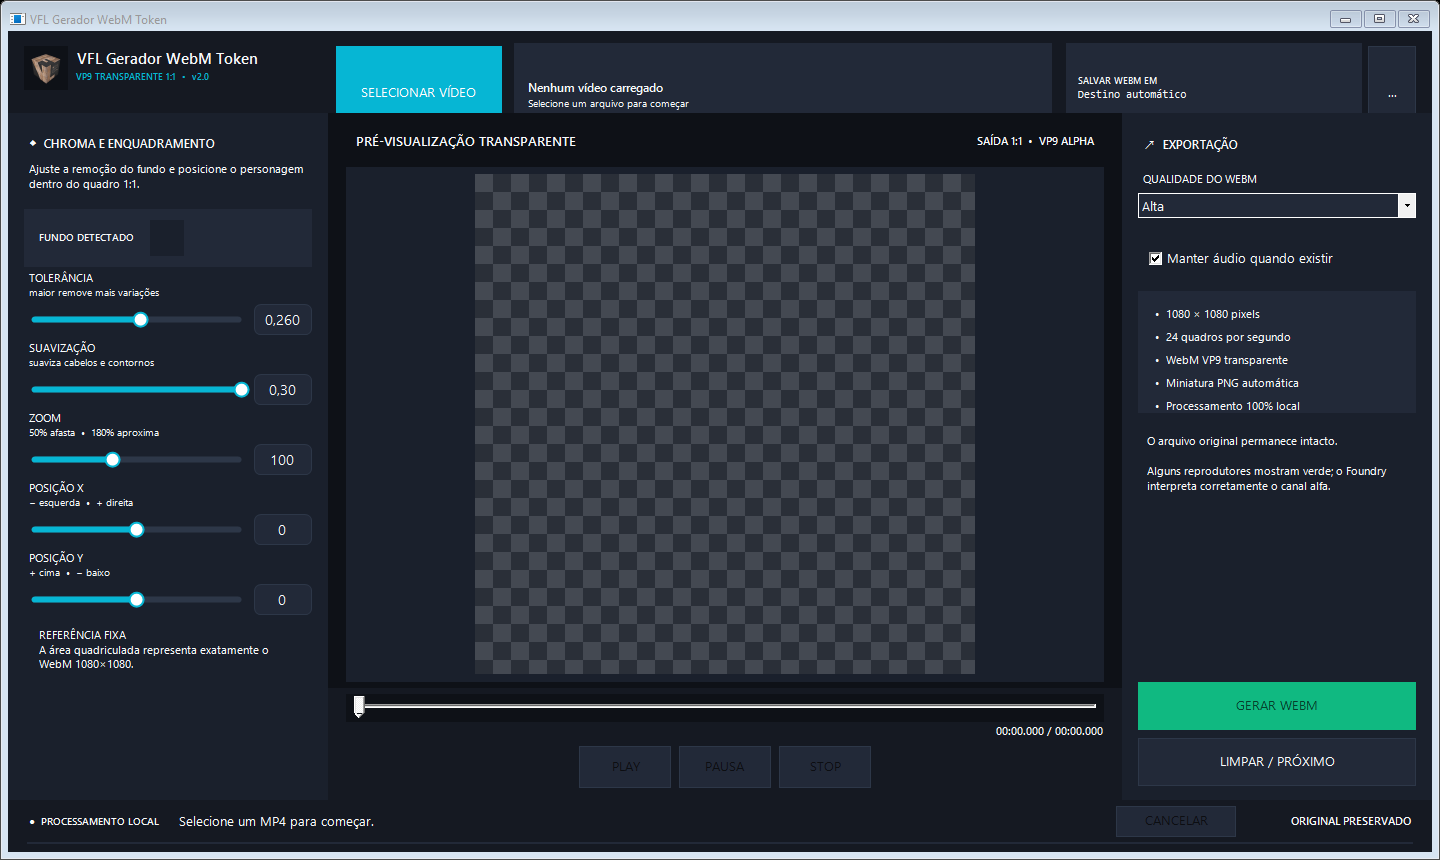
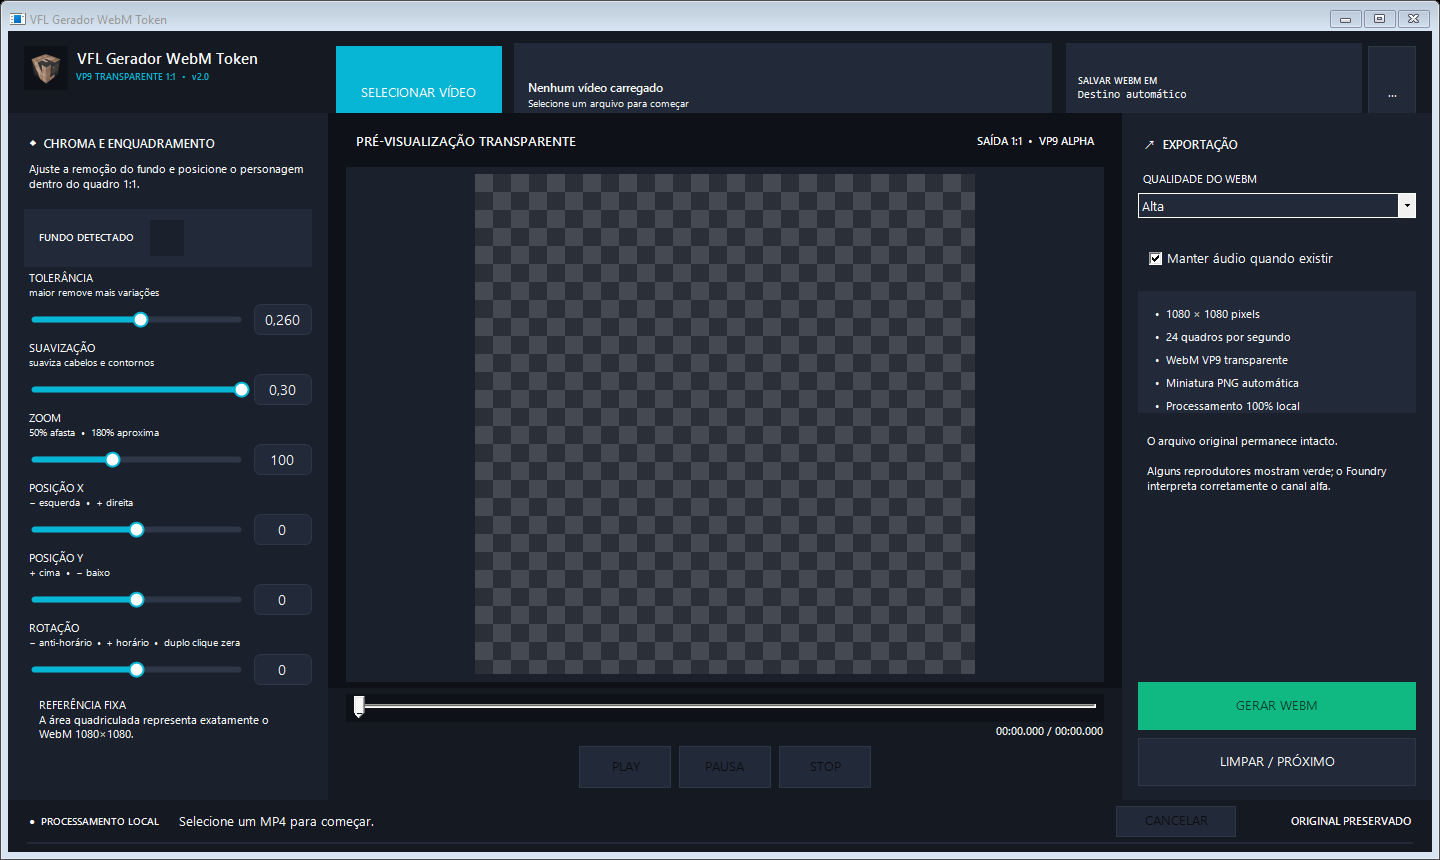
Adiciona rotacao ao enquadramento dos tokens

Changed region(s): [[0.0, 0.7256, 0.1875, 0.786], [0.0312, 0.8163, 0.1875, 0.8767]]

diff --git a/MainForm.cs b/MainForm.cs
@@ -11,6 +11,7 @@ internal sealed class MainForm : Form
     private readonly ValueSlider _zoom = Slider(50, 180, 100, 5, 0);
     private readonly ValueSlider _positionX = Slider(-400, 400, 0, 10, 0);
     private readonly ValueSlider _positionY = Slider(-400, 400, 0, 10, 0);
+    private readonly ValueSlider _rotation = Slider(-180, 180, 0, 1, 0);
     private readonly ComboBox _quality = new() { DropDownStyle = ComboBoxStyle.DropDownList };
     private readonly CheckBox _keepAudio = new() { Text = "Manter áudio quando existir", Checked = true, AutoSize = true };
     private readonly CheckerPreview _preview = new() { Dock = DockStyle.Fill };
@@ -66,6 +67,8 @@ internal sealed class MainForm : Form
         _zoom.ValueChanged += (_, _) => SettingChanged();
         _positionX.ValueChanged += (_, _) => SettingChanged();
         _positionY.ValueChanged += (_, _) => SettingChanged();
+        _rotation.ValueChanged += (_, _) => SettingChanged();
+        _rotation.DoubleClick += (_, _) => _rotation.Value = 0;
         _quality.SelectedIndexChanged += (_, _) => SaveSettings();
         _keepAudio.CheckedChanged += (_, _) => SaveSettings();
         _selectVideo.Click += async (_, _) => await SelectVideoAsync();
@@ -136,10 +139,10 @@ internal sealed class MainForm : Form
         main.ColumnStyles.Add(new ColumnStyle(SizeType.Absolute, 310));
         root.Controls.Add(main, 0, 1);
 
-        var left = new TableLayoutPanel { Dock = DockStyle.Fill, RowCount = 10, Padding = new Padding(16, 14, 16, 14), Tag = "sidebar", Margin = Padding.Empty, AutoScroll = true, AutoScrollMinSize = new Size(0, 620) };
+        var left = new TableLayoutPanel { Dock = DockStyle.Fill, RowCount = 10, Padding = new Padding(16, 14, 16, 14), Tag = "sidebar", Margin = Padding.Empty, AutoScroll = true, AutoScrollMinSize = new Size(0, 660) };
         left.RowStyles.Add(new RowStyle(SizeType.Absolute, 34)); left.RowStyles.Add(new RowStyle(SizeType.Absolute, 48)); left.RowStyles.Add(new RowStyle(SizeType.Absolute, 58));
-        for (var index = 0; index < 5; index++) left.RowStyles.Add(new RowStyle(SizeType.Absolute, 70));
-        left.RowStyles.Add(new RowStyle(SizeType.Percent, 100)); left.RowStyles.Add(new RowStyle(SizeType.Absolute, 58));
+        for (var index = 0; index < 6; index++) left.RowStyles.Add(new RowStyle(SizeType.Absolute, 70));
+        left.RowStyles.Add(new RowStyle(SizeType.Percent, 100));
         left.Controls.Add(SectionTitle("CHROMA E ENQUADRAMENTO", "◆"), 0, 0);
         left.Controls.Add(new Label { Text = "Ajuste a remoção do fundo e posicione o personagem dentro do quadro 1:1.", Dock = DockStyle.Fill, ForeColor = Theme.Muted, Font = new Font("Segoe UI", 8.3f) }, 0, 1);
         var detectedCard = new TableLayoutPanel { Dock = DockStyle.Fill, ColumnCount = 3, Tag = "card", Padding = new Padding(10, 7, 10, 7), Margin = Padding.Empty };
@@ -152,7 +155,8 @@ internal sealed class MainForm : Form
         left.Controls.Add(StackedNumber("ZOOM", _zoom, "50% afasta  •  180% aproxima"), 0, 5);
         left.Controls.Add(StackedNumber("POSIÇÃO X", _positionX, "− esquerda  •  + direita"), 0, 6);
         left.Controls.Add(StackedNumber("POSIÇÃO Y", _positionY, "+ cima  •  − baixo"), 0, 7);
-        left.Controls.Add(new Label { Text = "REFERÊNCIA FIXA\nA área quadriculada representa exatamente o WebM 1080×1080.", Dock = DockStyle.Fill, ForeColor = Theme.Muted, Font = new Font("Segoe UI", 8.3f), Padding = new Padding(10), Tag = "card" }, 0, 8);
+        left.Controls.Add(StackedNumber("ROTAÇÃO", _rotation, "− anti-horário  •  + horário  •  duplo clique zera"), 0, 8);
+        left.Controls.Add(new Label { Text = "REFERÊNCIA FIXA\nA área quadriculada representa exatamente o WebM 1080×1080.", Dock = DockStyle.Fill, ForeColor = Theme.Muted, Font = new Font("Segoe UI", 8.3f), Padding = new Padding(10), Tag = "card" }, 0, 9);
         main.Controls.Add(left, 0, 0);
 
         var workspace = new TableLayoutPanel { Dock = DockStyle.Fill, RowCount = 3, Tag = "background", Margin = Padding.Empty };
@@ -316,7 +320,7 @@ internal sealed class MainForm : Form
 
         var settings = new TableLayoutPanel
         {
-            Dock = DockStyle.Fill, RowCount = 12, Padding = new Padding(22, 16, 22, 16),
+            Dock = DockStyle.Fill, RowCount = 13, Padding = new Padding(22, 16, 22, 16),
             Tag = "rounded-surface", Margin = new Padding(0, 0, 12, 0),
             AutoScroll = true, AutoScrollMinSize = new Size(0, 540)
         };
@@ -324,6 +328,7 @@ internal sealed class MainForm : Form
         settings.RowStyles.Add(new RowStyle(SizeType.Absolute, 64));
         settings.RowStyles.Add(new RowStyle(SizeType.Absolute, 64));
         settings.RowStyles.Add(new RowStyle(SizeType.Absolute, 36));
+        settings.RowStyles.Add(new RowStyle(SizeType.Absolute, 48));
         settings.RowStyles.Add(new RowStyle(SizeType.Absolute, 48));
         settings.RowStyles.Add(new RowStyle(SizeType.Absolute, 48));
         settings.RowStyles.Add(new RowStyle(SizeType.Absolute, 48));
@@ -345,13 +350,14 @@ internal sealed class MainForm : Form
         settings.Controls.Add(SettingRow("Zoom", _zoom, "50% afasta  •  180% aproxima"), 0, 6);
         settings.Controls.Add(SettingRow("Posição X", _positionX, "− esquerda  •  + direita"), 0, 7);
         settings.Controls.Add(SettingRow("Posição Y", _positionY, "+ cima  •  − baixo"), 0, 8);
+        settings.Controls.Add(SettingRow("Rotação", _rotation, "− anti-horário  •  + horário"), 0, 9);
         var qualityRow = new TableLayoutPanel { Dock = DockStyle.Fill, ColumnCount = 2, Tag = "surface" };
         qualityRow.ColumnStyles.Add(new ColumnStyle(SizeType.Absolute, 130)); qualityRow.ColumnStyles.Add(new ColumnStyle(SizeType.Percent, 100));
         qualityRow.Controls.Add(new Label { Text = "QUALIDADE", Dock = DockStyle.Fill, ForeColor = Theme.Muted, TextAlign = ContentAlignment.MiddleLeft }, 0, 0);
         _quality.Dock = DockStyle.Fill; _quality.Margin = new Padding(0, 7, 0, 7); qualityRow.Controls.Add(_quality, 1, 0);
-        settings.Controls.Add(qualityRow, 0, 9);
-        _keepAudio.Dock = DockStyle.Fill; settings.Controls.Add(_keepAudio, 0, 10);
-        settings.Controls.Add(new Label { Text = "Prévia automática • Saída 1080×1080 • 24 FPS • VP9 transparente\nZoom 100% e posições X/Y 0 mantêm o enquadramento automático.", Dock = DockStyle.Fill, ForeColor = Theme.Muted, Font = new Font("Segoe UI", 8.5f) }, 0, 11);
+        settings.Controls.Add(qualityRow, 0, 10);
+        _keepAudio.Dock = DockStyle.Fill; settings.Controls.Add(_keepAudio, 0, 11);
+        settings.Controls.Add(new Label { Text = "Prévia automática • Saída 1080×1080 • 24 FPS • VP9 transparente\nZoom 100%, posições X/Y 0 e rotação 0° mantêm o enquadramento automático.", Dock = DockStyle.Fill, ForeColor = Theme.Muted, Font = new Font("Segoe UI", 8.5f) }, 0, 12);
         content.Controls.Add(settings, 0, 0);
 
         var previewCard = new TableLayoutPanel { Dock = DockStyle.Fill, RowCount = 3, Padding = new Padding(16), Tag = "rounded-surface", Margin = new Padding(12, 0, 0, 0) };
@@ -454,7 +460,7 @@ internal sealed class MainForm : Form
             var analyzer = new VideoAnalyzer();
             var messages = new Progress<string>(message => _status.Text = message);
             _analysis = await analyzer.AnalyzeAsync(_input.Text, (double)_similarity.Value, (double)_blend.Value,
-                (double)_zoom.Value, (int)_positionX.Value, (int)_positionY.Value, messages, _cts.Token);
+                (double)_zoom.Value, (int)_positionX.Value, (int)_positionY.Value, (double)_rotation.Value, messages, _cts.Token);
             _colorSwatch.BackColor = _analysis.BackgroundColor;
             _detected.Text = $"#{_analysis.BackgroundColor.R:X2}{_analysis.BackgroundColor.G:X2}{_analysis.BackgroundColor.B:X2}  •  confiança {_analysis.Confidence:P0}";
             _preview.PreviewImage = LoadImage(_analysis.PreviewPath);
@@ -464,7 +470,7 @@ internal sealed class MainForm : Form
             SetPlaybackControlsEnabled(true);
             _videoTitle.Text = Path.GetFileName(_input.Text);
             _videoMeta.Text = $"{FormatTime(_analysis.Video.Duration)}  •  fundo {_detected.Text}";
-            _status.Text = $"Prévia pronta • Zoom {_zoom.Value:0}% • X {_positionX.Value:+0;-0;0} • Y {_positionY.Value:+0;-0;0}";
+            _status.Text = $"Prévia pronta • Zoom {_zoom.Value:0}% • X {_positionX.Value:+0;-0;0} • Y {_positionY.Value:+0;-0;0} • Giro {_rotation.Value:+0;-0;0}°";
         }
         catch (OperationCanceledException) { _status.Text = "Análise cancelada."; _videoMeta.Text = "Análise cancelada"; }
         catch (Exception exception) { _status.Text = "Falha na análise."; _videoMeta.Text = "Não foi possível analisar este arquivo"; TokenDialog.ShowMessage(this, "Erro na análise", exception.Message); }
@@ -488,7 +494,7 @@ internal sealed class MainForm : Form
             var progress = new Progress<RenderProgress>(item => { _progress.Value = (int)item.Percent; _status.Text = item.Message; });
             await new WebmRenderer().RenderAsync(_input.Text, _output.Text, _analysis,
                 (double)_similarity.Value, (double)_blend.Value, (double)_zoom.Value,
-                (int)_positionX.Value, (int)_positionY.Value,
+                (int)_positionX.Value, (int)_positionY.Value, (double)_rotation.Value,
                 preset, _keepAudio.Checked, progress, _cts.Token);
             var thumbnailPath = Path.Combine(
                 Path.GetDirectoryName(Path.GetFullPath(_output.Text)) ?? "",
@@ -510,7 +516,7 @@ internal sealed class MainForm : Form
         _render.Enabled = !busy && _analysis is not null; _clear.Enabled = !busy; _cancel.Enabled = busy;
         _selectVideo.Enabled = !busy; _selectOutput.Enabled = !busy;
         _similarity.Enabled = !busy; _blend.Enabled = !busy; _zoom.Enabled = !busy;
-        _positionX.Enabled = !busy; _positionY.Enabled = !busy; _quality.Enabled = !busy; _keepAudio.Enabled = !busy;
+        _positionX.Enabled = !busy; _positionY.Enabled = !busy; _rotation.Enabled = !busy; _quality.Enabled = !busy; _keepAudio.Enabled = !busy;
         _timeline.Enabled = !busy && _analysis is not null;
         if (busy)
         {
@@ -568,6 +574,7 @@ internal sealed class MainForm : Form
         _zoom.Value = Clamp(settings.Zoom, _zoom.Minimum, _zoom.Maximum);
         _positionX.Value = Clamp(settings.PositionX, _positionX.Minimum, _positionX.Maximum);
         _positionY.Value = Clamp(settings.PositionY, _positionY.Minimum, _positionY.Maximum);
+        _rotation.Value = Clamp(settings.Rotation, _rotation.Minimum, _rotation.Maximum);
         _quality.SelectedItem = Enum.TryParse<QualityPreset>(settings.Quality, out var quality)
             ? quality.ToString()
             : QualityPreset.Alta.ToString();
@@ -583,6 +590,7 @@ internal sealed class MainForm : Form
             Zoom = _zoom.Value,
             PositionX = _positionX.Value,
             PositionY = _positionY.Value,
+            Rotation = _rotation.Value,
             Quality = _quality.SelectedItem?.ToString() ?? QualityPreset.Alta.ToString(),
             KeepAudio = _keepAudio.Checked
         }.Save();
@@ -602,10 +610,10 @@ internal sealed class MainForm : Form
             _status.Text = "Atualizando prévia...";
             previewPath = await new VideoAnalyzer().CreatePreviewAsync(_input.Text, _analysis,
                 (double)_similarity.Value, (double)_blend.Value, (double)_zoom.Value,
-                (int)_positionX.Value, (int)_positionY.Value, _previewPositionSeconds, token);
+                (int)_positionX.Value, (int)_positionY.Value, (double)_rotation.Value, _previewPositionSeconds, token);
             if (token.IsCancellationRequested) return;
             _preview.PreviewImage = LoadImage(previewPath);
-            _status.Text = $"Prévia {FormatTime(_previewPositionSeconds)} • Zoom {_zoom.Value:0}% • X {_positionX.Value:+0;-0;0} • Y {_positionY.Value:+0;-0;0}";
+            _status.Text = $"Prévia {FormatTime(_previewPositionSeconds)} • Zoom {_zoom.Value:0}% • X {_positionX.Value:+0;-0;0} • Y {_positionY.Value:+0;-0;0} • Giro {_rotation.Value:+0;-0;0}°";
         }
         catch (OperationCanceledException) { }
         catch (Exception exception)
@@ -648,7 +656,7 @@ internal sealed class MainForm : Form
         {
             await new VideoAnalyzer().StreamPreviewAsync(_input.Text, _analysis,
                 (double)_similarity.Value, (double)_blend.Value, (double)_zoom.Value,
-                (int)_positionX.Value, (int)_positionY.Value, startPosition,
+                (int)_positionX.Value, (int)_positionY.Value, (double)_rotation.Value, startPosition,
                 async (bitmap, seconds) =>
                 {
                     if (token.IsCancellationRequested) { bitmap.Dispose(); return; }

diff --git a/VideoAnalyzer.cs b/VideoAnalyzer.cs
@@ -20,7 +20,7 @@ internal sealed class VideoAnalyzer
     }
 
     public async Task<AnalysisResult> AnalyzeAsync(string videoPath, double similarity, double blend, double zoomPercent,
-        int horizontalOffset, int verticalOffset,
+        int horizontalOffset, int verticalOffset, double rotationDegrees,
         IProgress<string> progress, CancellationToken cancellationToken)
     {
         var info = await ProbeAsync(videoPath, cancellationToken);
@@ -47,7 +47,7 @@ internal sealed class VideoAnalyzer
 
             var previewSecond = 0d;
             var preview = await CreatePreviewAsync(videoPath, background, bounds, info, similarity, blend,
-                zoomPercent, horizontalOffset, verticalOffset, previewSecond, cancellationToken);
+                zoomPercent, horizontalOffset, verticalOffset, rotationDegrees, previewSecond, cancellationToken);
             return new AnalysisResult(background, bounds, info, preview, confidence);
         }
         finally
@@ -57,13 +57,14 @@ internal sealed class VideoAnalyzer
     }
 
     public Task<string> CreatePreviewAsync(string videoPath, AnalysisResult analysis, double similarity,
-        double blend, double zoomPercent, int horizontalOffset, int verticalOffset,
+        double blend, double zoomPercent, int horizontalOffset, int verticalOffset, double rotationDegrees,
         double positionSeconds, CancellationToken cancellationToken) =>
         CreatePreviewAsync(videoPath, analysis.BackgroundColor, analysis.SubjectBounds, analysis.Video,
-            similarity, blend, zoomPercent, horizontalOffset, verticalOffset, positionSeconds, cancellationToken);
+            similarity, blend, zoomPercent, horizontalOffset, verticalOffset, rotationDegrees,
+            positionSeconds, cancellationToken);
 
     public async Task StreamPreviewAsync(string videoPath, AnalysisResult analysis, double similarity,
-        double blend, double zoomPercent, int horizontalOffset, int verticalOffset,
+        double blend, double zoomPercent, int horizontalOffset, int verticalOffset, double rotationDegrees,
         double positionSeconds, Func<Bitmap, double, Task> showFrame, CancellationToken cancellationToken)
     {
         const int previewSize = 500;
@@ -71,7 +72,7 @@ internal sealed class VideoAnalyzer
         var finalFrameSecond = Math.Max(0, analysis.Video.Duration - 1 / Math.Max(1, analysis.Video.FrameRate));
         var seekSecond = Math.Clamp(positionSeconds, 0, finalFrameSecond);
         var filter = BuildVideoFilter(analysis.BackgroundColor, analysis.SubjectBounds, similarity, blend,
-            zoomPercent, horizontalOffset, verticalOffset) +
+            zoomPercent, horizontalOffset, verticalOffset, rotationDegrees) +
             $",scale={previewSize}:{previewSize}:flags=fast_bilinear,fps={previewFps.ToString(CultureInfo.InvariantCulture)},format=bgra";
         var psi = new ProcessStartInfo(_ffmpeg)
         {
@@ -123,11 +124,11 @@ internal sealed class VideoAnalyzer
 
     private async Task<string> CreatePreviewAsync(string videoPath, Color background, Rectangle bounds,
         VideoInfo info, double similarity, double blend, double zoomPercent, int horizontalOffset,
-        int verticalOffset, double positionSeconds, CancellationToken cancellationToken)
+        int verticalOffset, double rotationDegrees, double positionSeconds, CancellationToken cancellationToken)
     {
         var preview = Path.Combine(Path.GetTempPath(), "VFL-WebM-preview-" + Guid.NewGuid().ToString("N") + ".png");
         var filter = BuildVideoFilter(background, bounds, similarity, blend, zoomPercent,
-            horizontalOffset, verticalOffset);
+            horizontalOffset, verticalOffset, rotationDegrees);
         try
         {
             var finalFrameSecond = Math.Max(0, info.Duration - 1 / Math.Max(1, info.FrameRate));
@@ -145,7 +146,8 @@ internal sealed class VideoAnalyzer
     }
 
     public static string BuildVideoFilter(Color color, Rectangle bounds, double similarity, double blend,
-        double zoomPercent = 100, int horizontalOffset = 0, int verticalOffset = 0)
+        double zoomPercent = 100, int horizontalOffset = 0, int verticalOffset = 0,
+        double rotationDegrees = 0)
     {
         var ci = CultureInfo.InvariantCulture;
         var key = $"0x{color.R:X2}{color.G:X2}{color.B:X2}";
@@ -155,27 +157,34 @@ internal sealed class VideoAnalyzer
         var scaledWidth = wide ? targetSize : Even((int)Math.Round(bounds.Width * targetSize / (double)bounds.Height));
         var scaledHeight = wide ? Even((int)Math.Round(bounds.Height * targetSize / (double)bounds.Width)) : targetSize;
         var scale = wide ? $"scale={scaledWidth}:-2" : $"scale=-2:{scaledHeight}";
-        var canvasWidth = Math.Max(1080, scaledWidth);
-        var canvasHeight = Math.Max(1080, scaledHeight);
+        var rotation = Math.Clamp(rotationDegrees, -180, 180);
+        var radians = rotation * Math.PI / 180d;
+        var cosine = Math.Abs(Math.Cos(radians));
+        var sine = Math.Abs(Math.Sin(radians));
+        var rotatedWidth = Even((int)Math.Ceiling(scaledWidth * cosine + scaledHeight * sine));
+        var rotatedHeight = Even((int)Math.Ceiling(scaledWidth * sine + scaledHeight * cosine));
+        var canvasWidth = Math.Max(1080, rotatedWidth);
+        var canvasHeight = Math.Max(1080, rotatedHeight);
         var offsetX = Math.Clamp(horizontalOffset, -400, 400);
         // Valores positivos acompanham a seta para cima do controle e movem o personagem para cima.
         var offsetY = Math.Clamp(-verticalOffset, -400, 400);
-        var padX = scaledWidth <= 1080
-            ? Math.Clamp((1080 - scaledWidth) / 2 + offsetX, 0, 1080 - scaledWidth)
+        var padX = rotatedWidth <= 1080
+            ? Math.Clamp((1080 - rotatedWidth) / 2 + offsetX, 0, 1080 - rotatedWidth)
             : 0;
-        var padY = scaledHeight <= 1080
-            ? Math.Clamp((1080 - scaledHeight) / 2 + offsetY, 0, 1080 - scaledHeight)
+        var padY = rotatedHeight <= 1080
+            ? Math.Clamp((1080 - rotatedHeight) / 2 + offsetY, 0, 1080 - rotatedHeight)
             : 0;
-        var cropX = scaledWidth > 1080
-            ? Math.Clamp((scaledWidth - 1080) / 2 - offsetX, 0, scaledWidth - 1080)
+        var cropX = rotatedWidth > 1080
+            ? Math.Clamp((rotatedWidth - 1080) / 2 - offsetX, 0, rotatedWidth - 1080)
             : 0;
-        var cropY = scaledHeight > 1080
-            ? Math.Clamp((scaledHeight - 1080) / 2 - offsetY, 0, scaledHeight - 1080)
+        var cropY = rotatedHeight > 1080
+            ? Math.Clamp((rotatedHeight - 1080) / 2 - offsetY, 0, rotatedHeight - 1080)
             : 0;
         return $"format=rgba,colorkey={key}:{similarity.ToString("0.###", ci)}:{blend.ToString("0.###", ci)}," +
                "lut=a='if(lt(val,64),0,if(gt(val,128),255,(val-64)*255/64))'," +
                $"crop={bounds.Width}:{bounds.Height}:{bounds.X}:{bounds.Y}," +
                scale + "," +
+               $"rotate={radians.ToString("0.########", ci)}:ow={rotatedWidth}:oh={rotatedHeight}:c=none," +
                $"pad={canvasWidth}:{canvasHeight}:{padX}:{padY}:color=black@0," +
                $"crop=1080:1080:{cropX}:{cropY},format=yuva420p";
     }

diff --git a/WebmRenderer.cs b/WebmRenderer.cs
@@ -10,7 +10,7 @@ internal sealed class WebmRenderer
         "FFmpeg portátil não encontrado. Extraia novamente a pasta completa do programa.");
 
     public async Task RenderAsync(string input, string output, AnalysisResult analysis, double similarity,
-        double blend, double zoomPercent, int horizontalOffset, int verticalOffset,
+        double blend, double zoomPercent, int horizontalOffset, int verticalOffset, double rotationDegrees,
         QualityPreset quality, bool keepAudio,
         IProgress<RenderProgress> progress, CancellationToken cancellationToken)
     {
@@ -21,7 +21,7 @@ internal sealed class WebmRenderer
             $".{Path.GetFileNameWithoutExtension(output)}-{Guid.NewGuid():N}.rendering.webm");
         var crf = quality switch { QualityPreset.Leve => 30, QualityPreset.Alta => 5, _ => 15 };
         var filter = VideoAnalyzer.BuildVideoFilter(analysis.BackgroundColor, analysis.SubjectBounds,
-            similarity, blend, zoomPercent, horizontalOffset, verticalOffset);
+            similarity, blend, zoomPercent, horizontalOffset, verticalOffset, rotationDegrees);
         var args = new List<string>
         {
             "-y", "-hide_banner", "-progress", "pipe:1", "-nostats", "-i", input,

diff --git a/ValueSlider.cs b/ValueSlider.cs
@@ -52,7 +52,8 @@ internal sealed class ValueSlider : Control
     {
         SetStyle(ControlStyles.AllPaintingInWmPaint | ControlStyles.OptimizedDoubleBuffer |
                  ControlStyles.ResizeRedraw | ControlStyles.UserPaint | ControlStyles.Selectable |
-                 ControlStyles.SupportsTransparentBackColor, true);
+                 ControlStyles.SupportsTransparentBackColor | ControlStyles.StandardClick |
+                 ControlStyles.StandardDoubleClick, true);
         Height = 30;
         Cursor = Cursors.Hand;
         TabStop = true;

diff --git a/AppSettings.cs b/AppSettings.cs
@@ -9,6 +9,7 @@ internal sealed class AppSettings
     public decimal Zoom { get; set; } = 100m;
     public decimal PositionX { get; set; }
     public decimal PositionY { get; set; }
+    public decimal Rotation { get; set; }
     public string Quality { get; set; } = QualityPreset.Alta.ToString();
     public bool KeepAudio { get; set; } = true;
 

diff --git a/README.md b/README.md
@@ -14,7 +14,8 @@ Aplicativo Windows para transformar vídeos com fundo sólido — verde, azul ou
 - Preferências salvas automaticamente entre vídeos e ao fechar o programa.
 - Miniatura PNG automática com o mesmo enquadramento e quadriculado da prévia.
 - Remoção de fundo com máscara alfa reforçada.
-- Zoom e posicionamento horizontal/vertical com atualização automática.
+- Zoom, posicionamento horizontal/vertical e rotação de `-180°` a `+180°` com atualização automática.
+- Duplo clique no slider de rotação para retornar imediatamente a `0°`.
 - Saída fixa em 1080×1080, 24 FPS, VP9 com alfa.
 - FFmpeg 8.1 e FFprobe portáteis incluídos no pacote para Windows.
 - Preset **Alpha VP9** confirmado para uso no Foundry VTT.
@@ -32,7 +33,7 @@ Windows 10 ou 11 de 64 bits. O pacote da seção **Releases** já inclui o FFmpe
 1. Baixe o ZIP na seção **Releases** e extraia a pasta inteira.
 2. Abra `VFL.GeradorWebMToken.exe`.
 3. Selecione o vídeo com fundo sólido.
-4. Confira a prévia e ajuste zoom, posições X/Y, tolerância ou suavização se necessário.
+4. Confira a prévia e ajuste zoom, posições X/Y, rotação, tolerância ou suavização se necessário.
 5. Clique em **Gerar WebM**.
 6. Importe o novo arquivo `_TOKEN.webm` no Foundry.
 
@@ -42,6 +43,7 @@ Reprodutores comuns podem mostrar o fundo verde porque não interpretam alfa em 
 
 - Tolerância: `0,260`
 - Suavização: `0,30`
+- Rotação: `0°`
 - Qualidade: Alta (`CRF 5`)
 - Bitrate: `20M`
 - GOP: `15`
